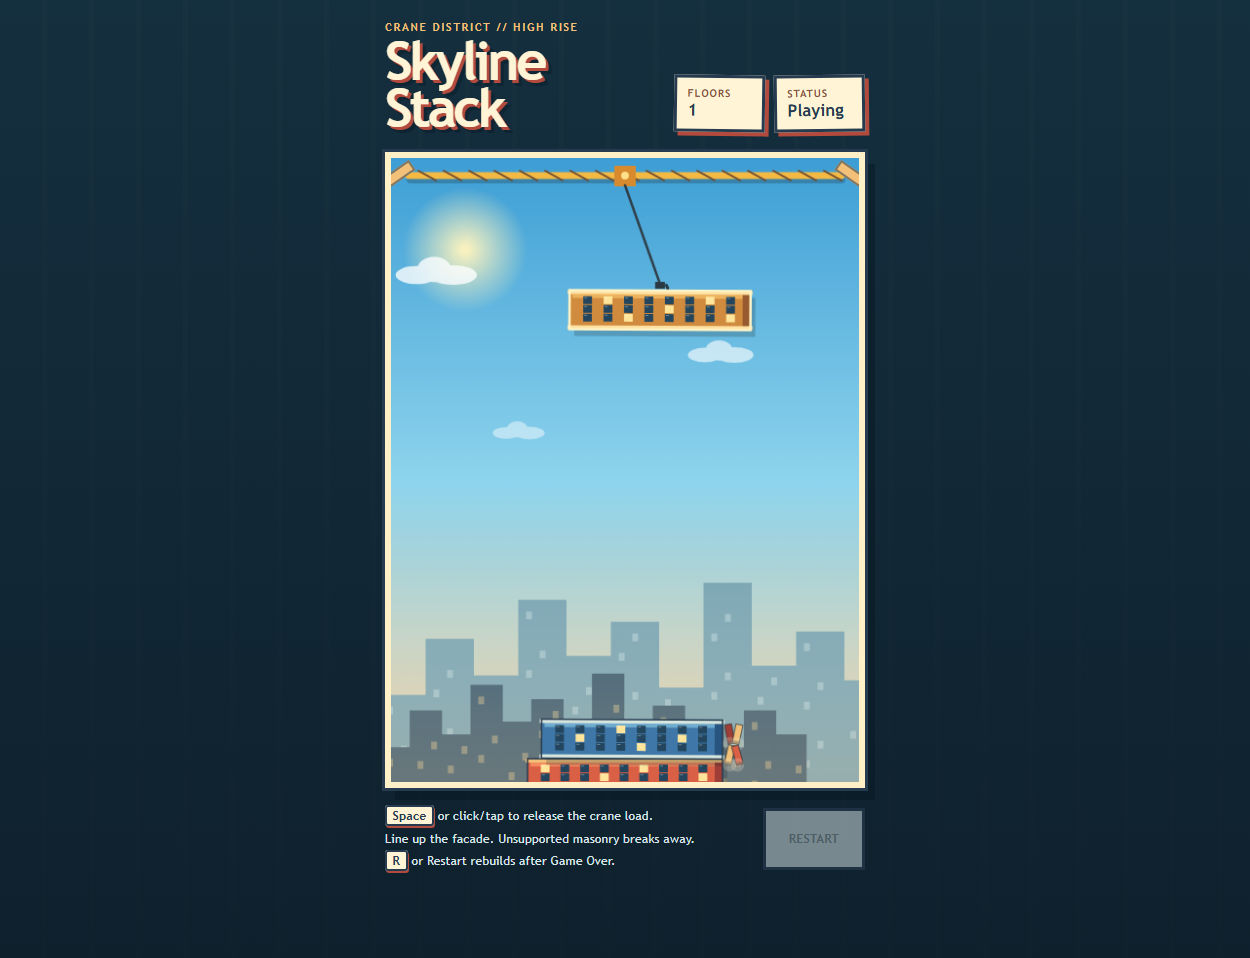
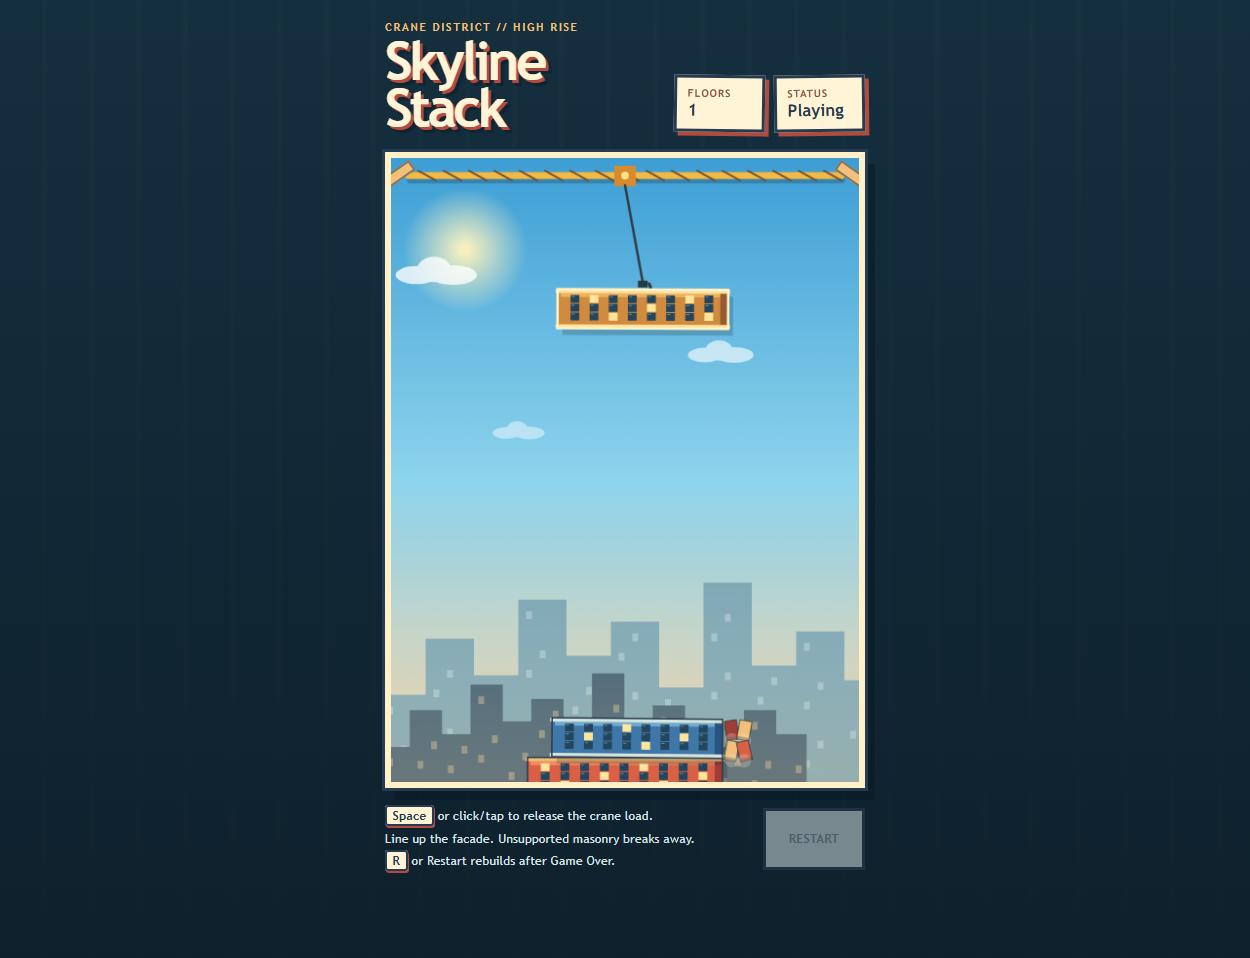
fix: keep crane load within canvas bounds

Changed region(s): [[0.4056, 0.7265, 0.624, 0.8173], [0.4368, 0.2119, 0.624, 0.3633]]

diff --git a/tests/crane.test.ts b/tests/crane.test.ts
@@ -20,6 +20,17 @@ describe("crane motion", () => {
     expect(getSwingPosition(Math.PI, 200, DEFAULT_GAME_CONFIG).direction).toBe(-1);
   });
 
+  it("keeps the entire attached floor inside the canvas at both sine extrema", () => {
+    const width = DEFAULT_GAME_CONFIG.startingBlockWidth;
+    const left = getSwingPosition(Math.PI * 1.5, width, DEFAULT_GAME_CONFIG);
+    const right = getSwingPosition(Math.PI / 2, width, DEFAULT_GAME_CONFIG);
+
+    expect(left.x).toBe(0);
+    expect(left.x + width).toBeLessThanOrEqual(DEFAULT_GAME_CONFIG.canvasWidth);
+    expect(right.x).toBeGreaterThanOrEqual(0);
+    expect(right.x + width).toBe(DEFAULT_GAME_CONFIG.canvasWidth);
+  });
+
   it("keeps the floor at a fixed hanging height and joins cable to its center", () => {
     const supportY = DEFAULT_GAME_CONFIG.canvasHeight - DEFAULT_GAME_CONFIG.blockHeight;
     const hangingY = getHangingY(supportY, DEFAULT_GAME_CONFIG.blockHeight);

diff --git a/tests/v2-evals.test.ts b/tests/v2-evals.test.ts
@@ -19,6 +19,17 @@ describe("Crane Tower V2 evals", () => {
     expect(advanced.activeBlock.x).not.toBe(initial.activeBlock.x);
     expect(advanced.activeBlock.y).toBe(initial.activeBlock.y);
     expect(advanced.swingPhase).toBeGreaterThan(initial.swingPhase);
+    for (const phase of [Math.PI / 2, Math.PI * 1.5]) {
+      const bounded = advanceSession(
+        { ...initial, swingPhase: phase - 0.0001 },
+        DEFAULT_GAME_CONFIG,
+        0.0001 / (DEFAULT_GAME_CONFIG.moveSpeed / 100),
+      );
+      expect(bounded.activeBlock.x).toBeGreaterThanOrEqual(0);
+      expect(bounded.activeBlock.x + bounded.activeBlock.width).toBeLessThanOrEqual(
+        DEFAULT_GAME_CONFIG.canvasWidth,
+      );
+    }
   });
 
   it("V2-E2: one release freezes x and advances only the vertical fall", () => {

diff --git a/src/game/crane.ts b/src/game/crane.ts
@@ -32,8 +32,9 @@ export function getSwingPosition(
   floorWidth: number,
   config: Pick<GameConfig, "canvasWidth">,
 ): SwingPosition {
+  const halfFloorWidth = floorWidth / 2;
   const centerX = config.canvasWidth / 2;
-  const amplitude = config.canvasWidth / 2;
+  const amplitude = Math.max(0, centerX - halfFloorWidth);
   const floorCenter = centerX + Math.sin(phase) * amplitude;
 
   return {

diff --git a/docs/EVALS_V2.md b/docs/EVALS_V2.md
@@ -15,12 +15,12 @@ V2 has no lives counter. V2-E4 evaluates the explicit absence of lives and confi
 
 | ID | Scenario | Expected result | Actual result | Status | Evidence |
 | --- | --- | --- | --- | --- | --- |
-| V2-E1 | Create a default session and advance an attached floor by 0.25 seconds | Swing phase and horizontal position advance; hanging height remains fixed; floor remains attached | Focused suite reproduced all expected state changes | PASS | `tests/v2-evals.test.ts` V2-E1 |
+| V2-E1 | Create a default session and advance an attached floor by 0.25 seconds; evaluate both sine extrema | Swing phase and horizontal position advance; hanging height remains fixed; floor remains attached; full floor stays within `0..canvasWidth` at both extrema | Focused suite reproduced all expected state changes and both horizontal bounds | PASS | `tests/v2-evals.test.ts` V2-E1; `tests/crane.test.ts` extrema assertions |
 | V2-E2 | Release with Space, repeat with pointer, then advance 0.1 seconds | First input enters falling; repeat input returns unchanged state; `x` remains fixed and `y` increases | Focused suite reproduced the one-shot vertical drop | PASS | `tests/v2-evals.test.ts` V2-E2 |
 | V2-E3 | Land a default-width floor 30 units to the right of its support | Placed plus detached widths equal released width; placed width is reduced by 30; at least four pieces originate on the right | Conservation, placed width, count, and side assertions passed | PASS | `tests/v2-evals.test.ts` V2-E3 |
 | V2-E4 | Place the released floor completely beyond the support | Score remains unchanged; full floor becomes at least four debris pieces; phase becomes Game Over; no `lives` or `remainingLives` field exists; later drop is ignored | All loss/no-lives assertions passed | PASS | `tests/v2-evals.test.ts` V2-E4 |
 | V2-E5 | Resolve eight perfect floors, advance camera after each, then restart a state containing V2 debris | Active floor and immediate support remain visible; restart is deeply equal to a fresh session and clears V2 state | Tall-tower visibility and full restart assertions passed | PASS | `tests/v2-evals.test.ts` V2-E5 |
-| V2-E6 | Run the local Edge browser smoke through Ready, one success, deliberate miss, Game Over, and R restart; capture the Playing screenshot | All DOM states match, screenshot is written, and browser runtime/log error arrays are empty | Ready 0 → Playing 1 → Game Over 1 → Ready 0; zero browser/runtime log errors | PASS | `artifacts/crane-tower/RESULTS.md`; `artifacts/crane-tower/smoke.png` |
+| V2-E6 | Run the local Edge browser smoke through Ready, one success, a bounded right-edge partial landing, deliberate left-edge miss, Game Over, and R restart; capture the Playing screenshot | All DOM states match, screenshot is written, and browser runtime/log error arrays are empty | Ready 0 → Playing 1 → Playing 2 → Game Over 2 → Ready 0; zero browser/runtime log errors | PASS | `artifacts/crane-tower/RESULTS.md`; `artifacts/crane-tower/smoke.png` |
 
 ## Actual focused execution
 
@@ -35,12 +35,12 @@ Observed result:
 ```text
 Test Files  1 passed (1)
 Tests       5 passed (5)
-Duration    564ms
+Duration    360ms
 ```
 
-## Existing browser evidence
+## Browser evidence
 
-The V2 browser smoke and screenshot were actually produced on 2026-09-20 and recorded in `artifacts/crane-tower/RESULTS.md`. The browser was local Microsoft Edge. Both captured browser error arrays were empty. This document references that existing evidence; it does not claim a new browser execution on 2026-09-21.
+The original V2 browser smoke and screenshot were produced on 2026-09-20. After the crane-bound correction, the local Microsoft Edge smoke was rerun on 2026-09-21 with the bounded partial-placement flow recorded in V2-E6. Both captured browser error arrays were empty; the newest screenshot is `artifacts/crane-tower/smoke.png`.
 
 ## Full regression verification
 
@@ -57,7 +57,7 @@ Observed results:
 ```text
 typecheck: PASS
 Test Files: 9 passed (9)
-Tests: 54 passed (54)
+Tests: 55 passed (55)
 build: PASS — 14 modules transformed
 ```
 

diff --git a/docs/CONTEXT_MANIFEST.md b/docs/CONTEXT_MANIFEST.md
@@ -22,13 +22,13 @@ Originalni Phase A snapshot ostaje proverljiv u Git tagu `phase-a-approved` i co
 | `specs/002-crane-tower-gameplay/spec.md` | Da; implemented and verified | User stories, FR-001–FR-020, SC-001–SC-008 i acceptance scenariji | 3 | City Bloxx je samo gameplay inspiracija |
 | `specs/002-crane-tower-gameplay/plan.md` | Da | Aktuelna arhitektura, alati i struktura modula | 3 | Grana je `phase-b/crane-tower-v2` |
 | Feature 002 research, data model i contracts | Da | Obrazloženje sway/camera/debris odluka i precizni ugovori | 3 | Proceduralni vizuelni sloj; bez tuđih runtime asseta |
-| `specs/002-crane-tower-gameplay/tasks.md` | Da; 28/28 završeno | Izvršeni implementacioni redosled i traceability | 4 | Nema otvorenog implementacionog taska |
+| `specs/002-crane-tower-gameplay/tasks.md` | Da; 30/30 završeno | Izvršeni implementacioni redosled i traceability | 4 | Nema otvorenog implementacionog taska |
 | `docs/EVALS_V2.md` | Da | Zaključana V2-E1–V2-E6 očekivanja i stvarni rezultati | 2 za V2 evale | V2-E4 proverava odsustvo lives sistema |
 | `tests/v2-evals.test.ts` | Da | Izvršna V2-E1–V2-E5 provera | 4 | 5/5 PASS 2026-09-21 |
 | `docs/AI_USAGE_LOG.md` | Da | Hronološki zapis Session 003 i naknadnog V2 rada | 4 | Redovi se dodaju; istorijski ishodi se ne prepisuju |
 | `package.json` i `package-lock.json` | Da | Autoritet za stvarne scripts i instalirane verzije | 3 za toolchain | TypeScript 7.0.2, Vite 8.3.0, Vitest 5.0.1 |
 | `src/` | Da | Autoritet za trenutno implementirano ponašanje | 4 | Framework-free TypeScript/Canvas; nema backend-a |
-| `tests/` | Da | Deterministički regression, input, engine i eval testovi | 4 | 9 fajlova / 54 testa PASS pri poslednjoj punoj proveri |
+| `tests/` | Da | Deterministički regression, input, engine i eval testovi | 4 | 9 fajlova / 55 testova PASS pri poslednjoj punoj proveri |
 | `README.md` | Da | Kratak korisnički setup/run/verify vodič | 5 | Komande odgovaraju stvarnom `package.json` |
 | `artifacts/crane-tower/` | Da | V2 browser screenshot i stvarni smoke rezultat | 4 za vizuelni dokaz | Edge flow PASS; runtime i log errors prazni |
 | Git istorija, branch, tag i remote | Da | Autoritet za verzionisano stanje i istorijske checkpoint-e | 4 | `origin` postoji; `phase-a-approved` čuva Phase A snapshot |
@@ -57,8 +57,8 @@ Sledeći izvori ostaju autoritativni samo za feature 001 / Session 003 istoriju:
 - Feature 002 crane/city implementacija je sačuvana u commitu `90e6259`.
 - `README.md`, `package.json`, `package-lock.json`, `index.html`, `src/`, `tests/` i `tsconfig.json` postoje.
 - Stvarni npm scripts su `dev`, `build`, `smoke`, `typecheck` i `test`.
-- Poslednja puna lokalna provera 2026-09-21: typecheck PASS, 9 test fajlova/54 testa PASS, build PASS.
-- V2 browser smoke je stvarno izvršen 2026-09-20 i sačuvan u `artifacts/crane-tower/`.
+- Poslednja puna lokalna provera 2026-09-21: typecheck PASS, 9 test fajlova/55 testova PASS, build PASS.
+- V2 browser smoke je stvarno izvršen 2026-09-20 i ponovljen 2026-09-21 nakon crane-bound korekcije; sačuvan je u `artifacts/crane-tower/`.
[1 lines of base64/hex data omitted]
 
 ## Current implementation map

diff --git a/specs/002-crane-tower-gameplay/spec.md b/specs/002-crane-tower-gameplay/spec.md
@@ -75,7 +75,7 @@ As a player, I can always see the crane, the active floor, and the top of my ris
 
 - **FR-001**: A session MUST present one main game loop with one active building floor, one tower, one score, one status, and one Restart control.
 - **FR-002**: A new active floor MUST appear suspended from a visible crane cable above the current tower support.
-- **FR-003**: While attached, the active floor MUST sway horizontally in a continuous repeating motion and remain visually connected to the cable.
+- **FR-003**: While attached, the active floor MUST sway horizontally in a continuous repeating motion, remain visually connected to the cable, and stay fully within the horizontal Canvas bounds at every phase.
 - **FR-004**: Space, left click, and tap MUST release an attached floor at most once per active floor.
 - **FR-005**: After release, the floor MUST retain its release position horizontally and fall vertically until contact is resolved.
 - **FR-006**: Contact resolution MUST calculate the horizontal overlap with the current top support.
@@ -107,7 +107,7 @@ As a player, I can always see the crane, the active floor, and the top of my ris
 
 ### Measurable Outcomes
 
-- **SC-001**: In 100% of deterministic checks, an unreleased floor changes horizontal position over time while retaining its hanging height, and a released floor changes vertical position without changing horizontal position.
+- **SC-001**: In 100% of deterministic checks, an unreleased floor changes horizontal position over time while retaining its hanging height and full horizontal Canvas bounds, and a released floor changes vertical position without changing horizontal position.
 - **SC-002**: For every tested successful imperfect landing, the placed width plus detached width equals the released width within 0.001 units, and debris originates only from the unsupported side.
 - **SC-003**: Perfect placement produces zero debris in 100% of deterministic checks; a full miss produces at least four visible fragments and no score increase.
 - **SC-004**: Repeated input during a fall produces no additional release or score transition in 100% of automated input checks.

diff --git a/docs/AI_USAGE_LOG.md b/docs/AI_USAGE_LOG.md
@@ -19,6 +19,7 @@ synchronization. Historical results are retained as originally measured.
 | 11 | Crane Tower V2 implementacija | Dodati kran, njihanje, vertikalni pad, odlamanje viška, kameru i proceduralni gradski izgled | Igriva originalna V2 petlja uz očuvane konfiguracione i baseline ugovore | Implementacija završena; typecheck i build prolaze; prvobitni V2 skup prošao je 49/49 testova; lokalni browser smoke i screenshot potvrđeni | Zatvoriti nedostajuću V2 dokumentaciju i eksplicitne evale |
 | 12 | V2 dokumentaciono zatvaranje | Napraviti obećane V2 game/build dokumente i merljive evale | `GAME_SPEC_V2`, `BUILD_PROMPT_V2`, `EVALS_V2` i izvršivi V2 eval testovi | Fokusirani V2 evali prošli su 5/5; kompletan skup prošao je 9 test datoteka i 54/54 testa; typecheck i build ostali PASS | Uskladiti sve projektne dokumente sa stvarnim stanjem repozitorijuma |
 | 13 | Dokumentaciona sinhronizacija | Pronaći i ispraviti zastarele tvrdnje o nepostojećem Git-u, source-u, testovima i runtime dokazima | Trenutni manifest i README moraju opisivati V2, dok zaključani V1/Session 003 fajlovi ostaju neizmenjeni | `CONTEXT_MANIFEST.md`, README, V2 reference, AI log i rezultati su usklađeni; lokalni linkovi, typecheck, 54/54 testova i build prolaze; baseline hash/read-only stanje i istorijski sadržaj su nepromenjeni | Commitovati i pushovati dokumentacioni paket kada ga par odobri |
+| 14 | Crane-bound convergence | Ispraviti nalaz da sinusni hod izvodi polovinu aktivnog poda van Canvas-a | Centar tereta mora ostati u intervalu `width / 2 .. canvasWidth - width / 2`; testovi i browser smoke moraju dokazati ponašanje | Dodati ekstremni testovi; TDD crveno stanje je pokazalo `x=-100` i desni rub `580`; korekcija prolazi 55/55 testova, typecheck/build i lokalni Edge smoke bez grešaka | Commitovati i pushovati convergence dopunu |
 
 ## Usage Data
 

diff --git a/docs/BUILD_PROMPT_V2.md b/docs/BUILD_PROMPT_V2.md
@@ -153,7 +153,7 @@ Implement and preserve `tests/v2-evals.test.ts` with these locked meanings:
 - **V2-E3 — Cut/crumble**: width is conserved and debris appears only on the unsupported side.
 - **V2-E4 — No-lives loss rule**: one full miss enters Game Over, creates full-floor debris, preserves score, and exposes no lives state.
 - **V2-E5 — Camera/restart**: eight floors remain playable and restart clears all V2 state.
-- **V2-E6 — Browser presentation**: actual browser flow verifies Ready, success, Game Over, restart, zero runtime/log errors, and a visual screenshot.
+- **V2-E6 — Browser presentation**: actual browser flow verifies Ready, success, a bounded edge partial landing, a later full miss, Game Over, restart, zero runtime/log errors, and a visual screenshot.
 
 Do not weaken these expectations after observing a failure. Fix implementation instead, unless a human explicitly approves a requirements change.
 
@@ -207,6 +207,7 @@ Record a command as PASS only when its actual process succeeds. A browser screen
 - The exact City Bloxx gameplay-inspiration-only boundary is present.
 - The no-lives rule is explicit in specification, implementation state, and V2-E4.
 - V2-E1 through V2-E5 pass as executable deterministic tests.
+- Crane extrema keep the complete active floor inside the Canvas; left and right bound assertions pass.
 - Typecheck, full tests, and production build pass.
 - V2-E6 has actual browser evidence or is honestly marked NOT RUN with a reason.
 - Session 003 evidence is unchanged.

diff --git a/specs/002-crane-tower-gameplay/tasks.md b/specs/002-crane-tower-gameplay/tasks.md
@@ -5,7 +5,7 @@ description: "Implementation tasks for crane tower gameplay"
 
 # Tasks: Crane Tower Gameplay
 
-**Current status**: 28/28 implementation tasks complete. V2 specification, build prompt, and eval documentation are maintained in `docs/GAME_SPEC_V2.md`, `docs/BUILD_PROMPT_V2.md`, and `docs/EVALS_V2.md`.
+**Current status**: 30/30 implementation tasks complete. V2 specification, build prompt, and eval documentation are maintained in `docs/GAME_SPEC_V2.md`, `docs/BUILD_PROMPT_V2.md`, and `docs/EVALS_V2.md`.
 
 **Input**: Design documents from `/specs/002-crane-tower-gameplay/`
 
@@ -168,3 +168,12 @@ description: "Implementation tasks for crane tower gameplay"
 - `[P]` identifies file-isolated work only; execution remains dependency ordered.
 - Existing `GameConfig` schema and Session 003 evidence are not rewritten.
 - Building detail is procedural Canvas art; `Example.jpeg` is reference-only and is not shipped as a game asset.
+
+---
+
+## Phase 7: Convergence
+
+**Purpose**: Close the discovered crane-sway boundary and regression-coverage gap without changing the public `GameConfig` schema or Session 003 evidence.
+
+- [X] T029 [US1] Add failing deterministic left/right sine-extrema and full-interval boundary assertions in `tests/crane.test.ts` and the V2 acceptance suite per FR-020 (partial)
+- [X] T030 [US1] Bound the attached-floor sine center and update V2 contracts, eval evidence, quickstart, and browser smoke coverage per the retained Core horizontal-movement rule and FR-003 (contradicts)

diff --git a/specs/002-crane-tower-gameplay/research.md b/specs/002-crane-tower-gameplay/research.md
@@ -12,9 +12,9 @@ City Bloxx is gameplay inspiration only.
 
 ## Decision 2: Attached floors use sinusoidal sway
 
-**Decision**: Drive the attached floor's horizontal center from a deterministic sine phase. The cable endpoint follows the floor center; release freezes the horizontal coordinate and changes only vertical position.
+**Decision**: Drive the attached floor's horizontal center from a deterministic sine phase over the safe center interval `width / 2 .. canvasWidth - width / 2`. The cable endpoint follows the floor center; release freezes the horizontal coordinate and changes only vertical position.
 
-**Rationale**: A sine curve reads as suspended motion, is frame-rate independent, remains easy to unit-test, and keeps drop timing understandable. Reusing `moveSpeed` as the phase-rate input preserves the public configuration contract.
+**Rationale**: A sine curve reads as suspended motion, is frame-rate independent, remains easy to unit-test, and keeps drop timing understandable without allowing facade geometry to leave the visible Canvas. Reusing `moveSpeed` as the phase-rate input preserves the public configuration contract.
 
 **Alternatives considered**: A full rigid-body pendulum was rejected as unnecessary for one-input play and contrary to the no-physics-library constraint. Edge-reflecting linear motion was rejected because it does not feel suspended.
 

diff --git a/specs/002-crane-tower-gameplay/plan.md b/specs/002-crane-tower-gameplay/plan.md
@@ -6,7 +6,7 @@
 
 ## Summary
 
-Evolve the existing Skyline Stack Canvas game into one focused crane-and-city tower loop. An original building floor hangs from a visible cable, sways sinusoidally, releases on one input, and falls vertically. Existing overlap geometry remains authoritative: supported masonry joins the tower, unsupported masonry is deterministically split into animated rubble, and a full miss ends the run. A camera offset follows the construction height while procedural sky, clouds, distant buildings, facade panels, windows, shadows, and a crane establish the requested classic mobile city-construction feel without copied assets.
+Evolve the existing Skyline Stack Canvas game into one focused crane-and-city tower loop. An original building floor hangs from a visible cable, sways sinusoidally within its full horizontal Canvas bounds, releases on one input, and falls vertically. Existing overlap geometry remains authoritative: supported masonry joins the tower, unsupported masonry is deterministically split into animated rubble, and a full miss ends the run. A camera offset follows the construction height while procedural sky, clouds, distant buildings, facade panels, windows, shadows, and a crane establish the requested classic mobile city-construction feel without copied assets.
 
 ## Technical Context
 

diff --git a/specs/002-crane-tower-gameplay/quickstart.md b/specs/002-crane-tower-gameplay/quickstart.md
@@ -1,6 +1,6 @@
 # Quickstart: Validate Crane Tower Gameplay
 
-**Verified**: 2026-09-21 — typecheck PASS, 9 test files/54 tests PASS, production build PASS. Browser smoke evidence is recorded under `artifacts/crane-tower/`.
+**Verified**: 2026-09-21 — typecheck PASS, 9 test files/55 tests PASS, production build PASS, and local Edge smoke PASS. Browser smoke evidence is recorded under `artifacts/crane-tower/`.
 
 ## Prerequisites
 
@@ -29,7 +29,7 @@ npm.cmd run dev -- --host 127.0.0.1
 Open the printed local URL and verify:
 
 1. The initial view is a portrait city scene with a detailed building base, skyline, sky/cloud depth, crane cable, and one suspended detailed floor.
-2. Without input, the suspended floor sways left and right while the cable follows it.
+2. Without input, the suspended floor sways left and right while the cable follows it; at both extremes, the entire floor remains inside the Canvas.
 3. Press Space near alignment. The cable detaches, the floor falls vertically, score becomes 1, and the next floor appears.
 4. Make a partial placement. Only the supported overlap remains; the outside section visibly breaks into rotating masonry and dust on the correct side.
 5. Make a full miss. The entire floor crumbles, score stays unchanged, and Game Over appears.
